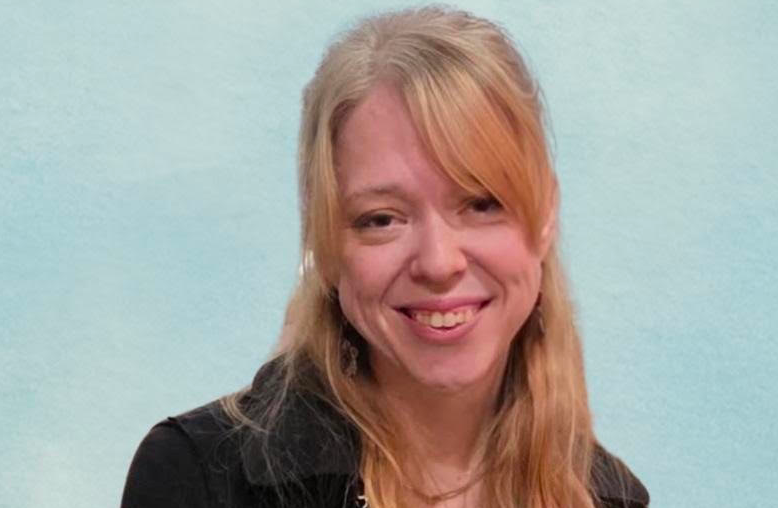
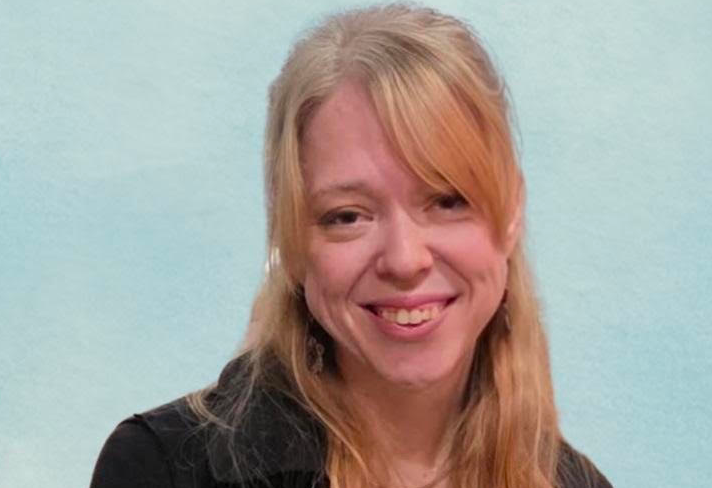
Use second tight contact headshot

Changed region(s): [[0.1236, 0.0, 0.8652, 1.0]]

diff --git a/src/app/generated-version.ts b/src/app/generated-version.ts
@@ -1,2 +1,2 @@
 // Generated by scripts/generate-version.mjs
-export const appVersion = "0.1.121";
+export const appVersion = "0.1.122";
